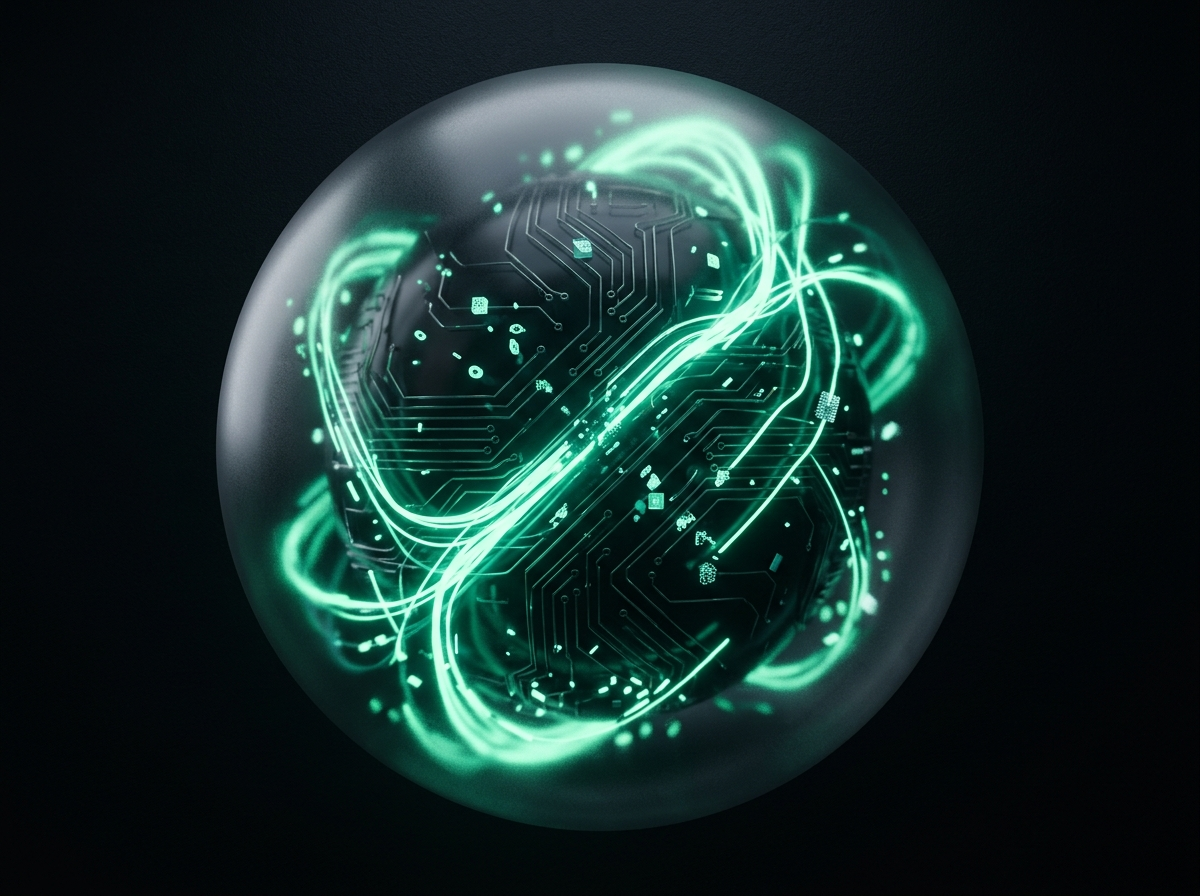
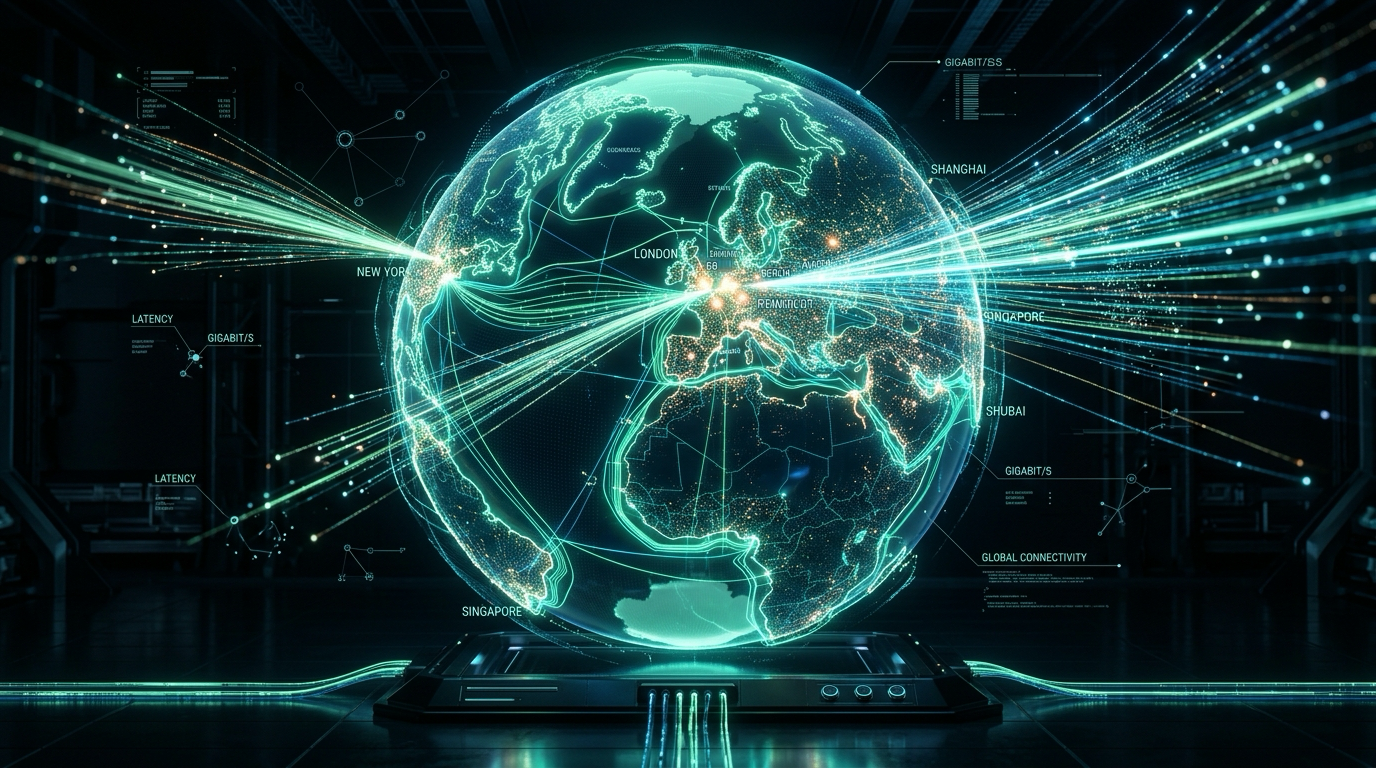
feat(ui): update landing visuals with 3D cyber assets and enhance top-up navigation

diff --git a/src/invoxystart/pages/ProfilePage.tsx b/src/invoxystart/pages/ProfilePage.tsx
@@ -1,6 +1,6 @@
 import { useEffect, useState } from 'react';
 import { usePlatform } from '@/platform';
-import { useNavigate } from 'react-router';
+import { useNavigate, useLocation } from 'react-router';
 import {
   Check,
   ChevronRight,
@@ -44,6 +44,8 @@ export default function ProfilePage() {
   const [history, setHistory] = useState<Transaction[]>([]);
   const [loyalty, setLoyalty] = useState<LoyaltyTiersResponse | null>(null);
   const [supportTarget, setSupportTarget] = useState<SupportContactTarget | null>(null);
+  const location = useLocation();
+  const [highlightTopUp, setHighlightTopUp] = useState(false);
 
   useEffect(() => {
     let mounted = true;
@@ -65,6 +67,27 @@ export default function ProfilePage() {
       mounted = false;
     };
   }, []);
+
+  useEffect(() => {
+    if (location.hash === '#top-up') {
+      setHighlightTopUp(true);
+      const timer = setTimeout(() => {
+        const el = document.getElementById('top-up');
+        if (el) {
+          el.scrollIntoView({ behavior: 'smooth', block: 'center' });
+        }
+      }, 150);
+
+      const clearTimer = setTimeout(() => {
+        setHighlightTopUp(false);
+      }, 4500);
+
+      return () => {
+        clearTimeout(timer);
+        clearTimeout(clearTimer);
+      };
+    }
+  }, [location.hash]);
 
   function openSupport() {
     const target = supportTarget ?? { kind: 'telegram' as const, url: 'https://t.me/invoxyvpn' };
@@ -133,7 +156,9 @@ export default function ProfilePage() {
 
           <section
             id="top-up"
-            className="glass-panel motion-card scroll-mt-6 rounded-[30px] p-5 lg:p-7"
+            className={`glass-panel motion-card scroll-mt-6 rounded-[30px] p-5 lg:p-7 transition-all duration-500 ${
+              highlightTopUp ? 'topup-highlight' : ''
+            }`}
           >
             <div className="flex items-start justify-between gap-4">
               <div>

diff --git a/src/styles/invoxystart.css b/src/styles/invoxystart.css
@@ -321,6 +321,32 @@ html.scroll-lock-active .ix-sidebar-island {
   }
 }
 
+@keyframes invoxy-topup-glow {
+  0% {
+    box-shadow:
+      0 0 0 0 rgba(165, 232, 196, 0.6),
+      0 0 25px rgba(165, 232, 196, 0.4);
+    border-color: rgba(165, 232, 196, 0.8);
+  }
+  50% {
+    box-shadow:
+      0 0 0 8px rgba(165, 232, 196, 0.2),
+      0 0 45px rgba(165, 232, 196, 0.6);
+    border-color: rgba(165, 232, 196, 1);
+  }
+  100% {
+    box-shadow:
+      0 0 0 0 rgba(165, 232, 196, 0),
+      0 0 0 rgba(165, 232, 196, 0);
+    border-color: rgba(255, 255, 255, 0.12);
+  }
+}
+
+.topup-highlight {
+  animation: invoxy-topup-glow 1.4s ease-in-out 3 !important;
+  border-color: rgba(165, 232, 196, 0.8) !important;
+}
+
 @media (prefers-reduced-motion: reduce) {
   .adaptive-dialog-panel .payment-dialog-heading,
   .adaptive-dialog-panel .payment-dialog-item,

diff --git a/src/App.tsx b/src/App.tsx
@@ -74,7 +74,7 @@ import VerifyEmail from './pages/VerifyEmail';
 import ResetPassword from './pages/ResetPassword';
 import PublicLegal from './pages/PublicLegal';
 import OAuthCallback from './pages/OAuthCallback';
-import Landing from './pages/Landing';
+import Landing from './invoxystart/pages/LandingPage';
 
 // Legacy connection page remains available from the customer dashboard.
 
